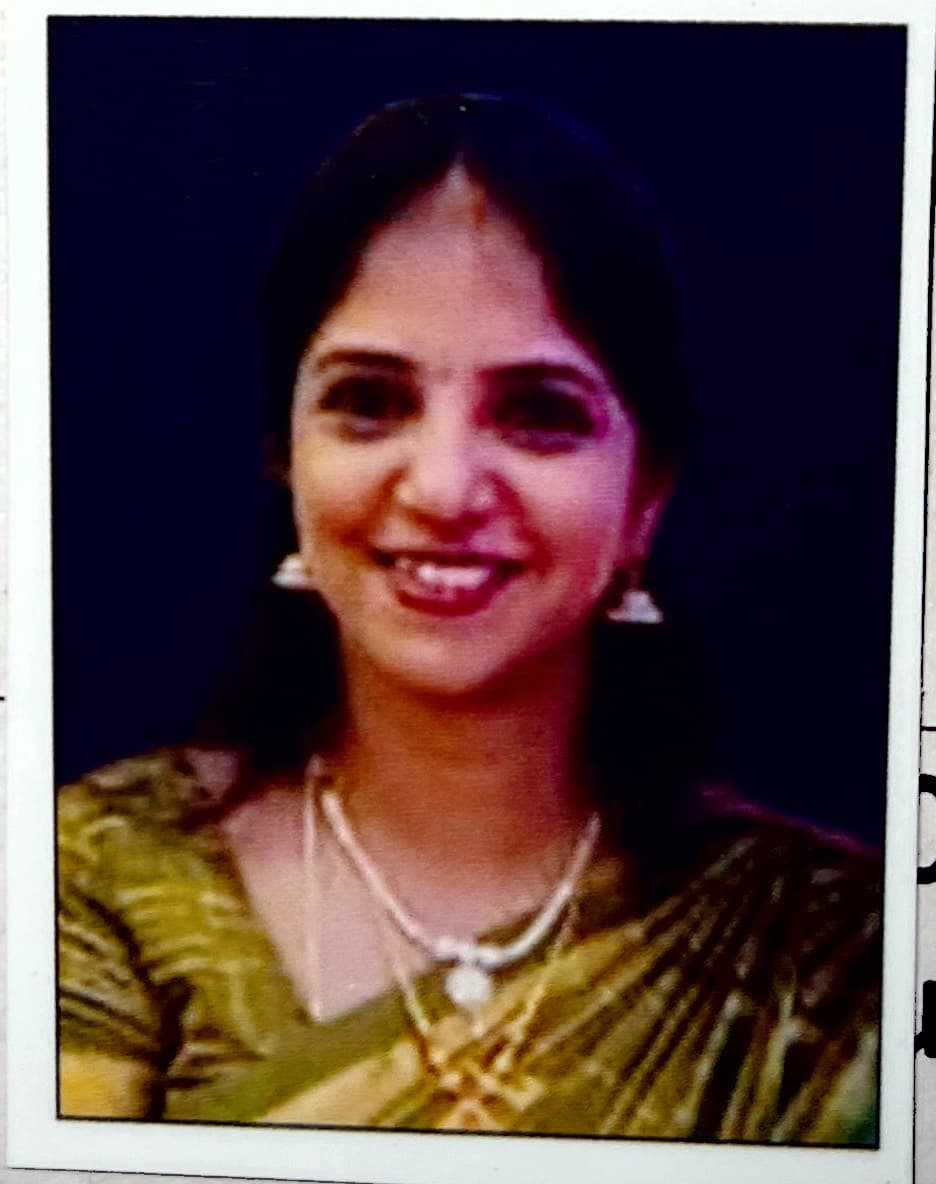
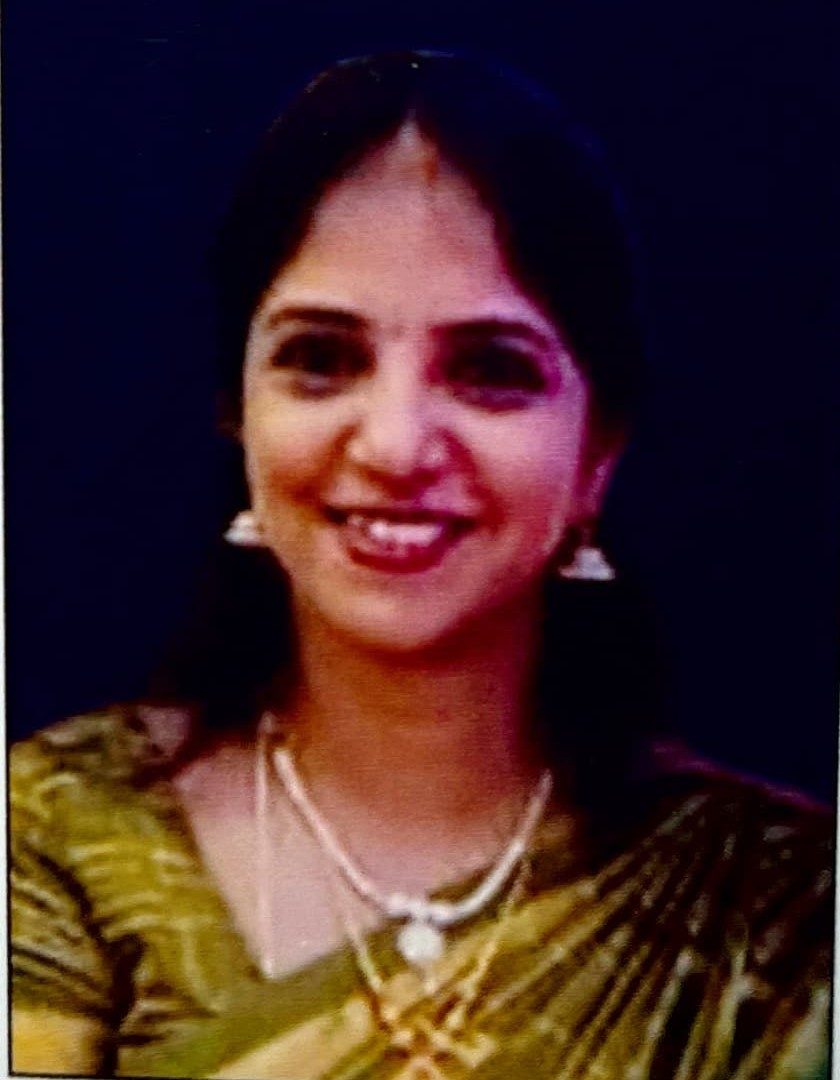
to change some files

diff --git a/src/components/Leadership.jsx b/src/components/Leadership.jsx
@@ -5,9 +5,7 @@ const leaders = [
     initials: "RN",
     name: "Remapriya Nanjappan",
     role: "Strategic Consultant",
-    department: "Executive",
-    hiringRole: "Hiring: COO",
-    avatarBg: "bg-blue-100",
+    department: "Executive",     avatarBg: "bg-blue-100",
     avatarText: "text-blue-800",
     ringColor: "ring-blue-200",
     image: "/images/rema-nanjappan.jpg",
@@ -29,7 +27,6 @@ const leaders = [
     name: "Maruthanayagam Jeyachandran",
     role: "Senior Functional Consultant",
     department: "Technology",
-    hiringRole: "Hiring: Staff Eng × 3",
     avatarBg: "bg-purple-100",
     avatarText: "text-purple-800",
     ringColor: "ring-purple-200",
@@ -52,7 +49,6 @@ const leaders = [
     name: "Arun Kumar Babu",
     role: "D365 functional consultant",
     department: "Product",
-    hiringRole: "Hiring: Sr. PM × 2",
     avatarBg: "bg-orange-100",
     avatarText: "text-orange-800",
     ringColor: "ring-orange-200",
@@ -128,12 +124,6 @@ function LeaderCard({ leader, index }) {
         <p className="text-xs text-gray-400 mb-4 font-medium uppercase tracking-widest">
           {leader.role}
         </p>
-
-        {/* Hiring pill */}
-        <span className="inline-flex items-center gap-1.5 text-xs font-semibold text-green-700 bg-green-50 border border-green-200 px-3 py-1.5 rounded-full">
-          <span className="w-1.5 h-1.5 rounded-full bg-green-500 animate-pulse"></span>
-          {leader.hiringRole}
-        </span>
       </div>
 
       {/* Description lines */}